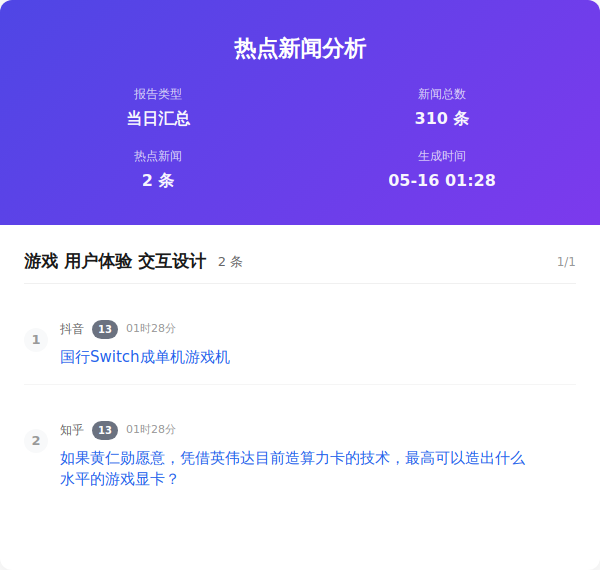
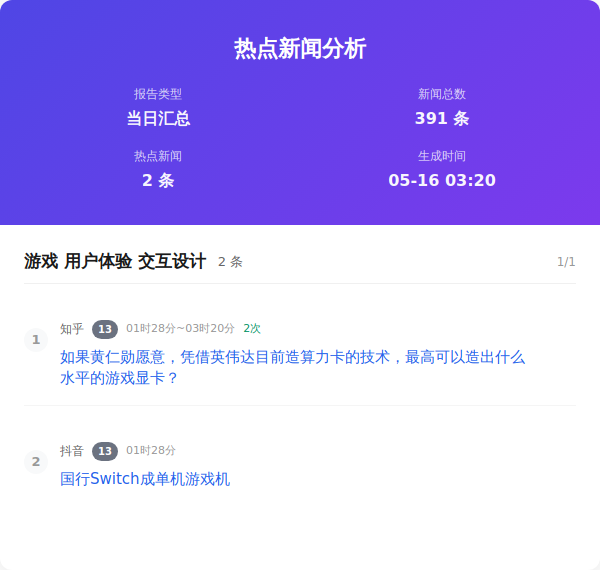
Auto update by GitHub Actions at Sat May 16 03:20:51 CST 2026

diff --git a/output/2026年05月16日/html/当日汇总.html b/output/2026年05月16日/html/当日汇总.html
@@ -357,7 +357,7 @@
                     </div>
                     <div class="info-item">
                         <span class="info-label">新闻总数</span>
-                        <span class="info-value">310 条</span>
+                        <span class="info-value">391 条</span>
                     </div>
                     <div class="info-item">
                         <span class="info-label">热点新闻</span>
@@ -365,7 +365,7 @@
                     </div>
                     <div class="info-item">
                         <span class="info-label">生成时间</span>
-                        <span class="info-value">05-16 01:28</span>
+                        <span class="info-value">05-16 03:20</span>
                     </div>
                 </div>
             </div>
@@ -383,9 +383,9 @@
                         <div class="news-number">1</div>
                         <div class="news-content">
                             <div class="news-header">
-                                <span class="source-name">抖音</span><span class="rank-num ">13</span><span class="time-info">01时28分</span>
+                                <span class="source-name">知乎</span><span class="rank-num ">13</span><span class="time-info">01时28分~03时20分</span><span class="count-info">2次</span>
                             </div>
-                            <div class="news-title"><a href="https://www.douyin.com/hot/2499780" target="_blank" class="news-link">国行Switch成单机游戏机</a>
+                            <div class="news-title"><a href="https://www.zhihu.com/question/2037259013860087102" target="_blank" class="news-link">如果黄仁勋愿意，凭借英伟达目前造算力卡的技术，最高可以造出什么水平的游戏显卡？</a>
                             </div>
                         </div>
                     </div>
@@ -393,9 +393,9 @@
                         <div class="news-number">2</div>
                         <div class="news-content">
                             <div class="news-header">
-                                <span class="source-name">知乎</span><span class="rank-num ">13</span><span class="time-info">01时28分</span>
+                                <span class="source-name">抖音</span><span class="rank-num ">13</span><span class="time-info">01时28分</span>
                             </div>
-                            <div class="news-title"><a href="https://www.zhihu.com/question/2037259013860087102" target="_blank" class="news-link">如果黄仁勋愿意，凭借英伟达目前造算力卡的技术，最高可以造出什么水平的游戏显卡？</a>
+                            <div class="news-title"><a href="https://www.douyin.com/hot/2499780" target="_blank" class="news-link">国行Switch成单机游戏机</a>
                             </div>
                         </div>
                     </div>